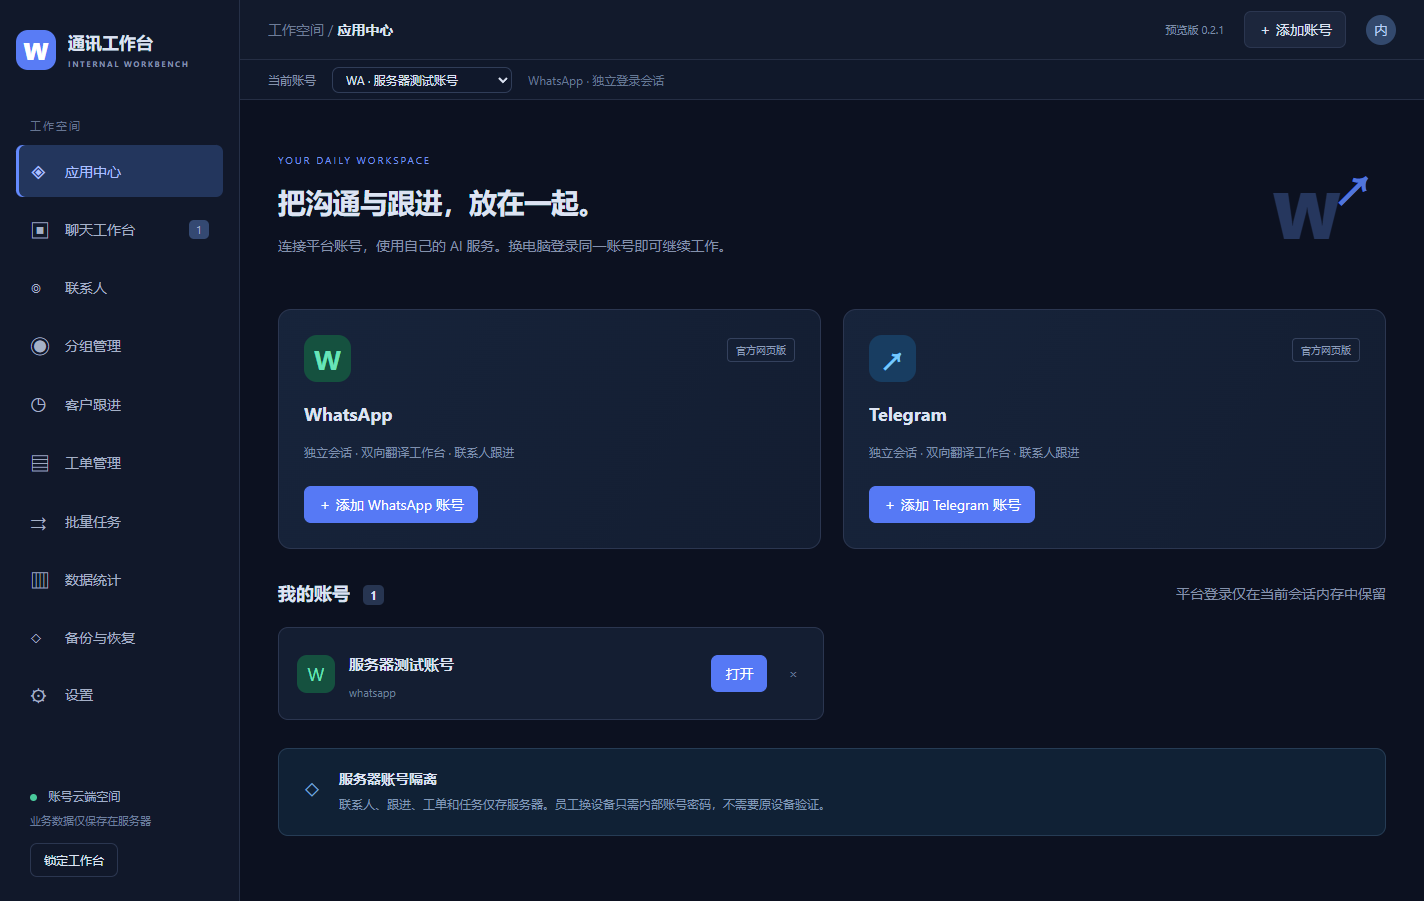
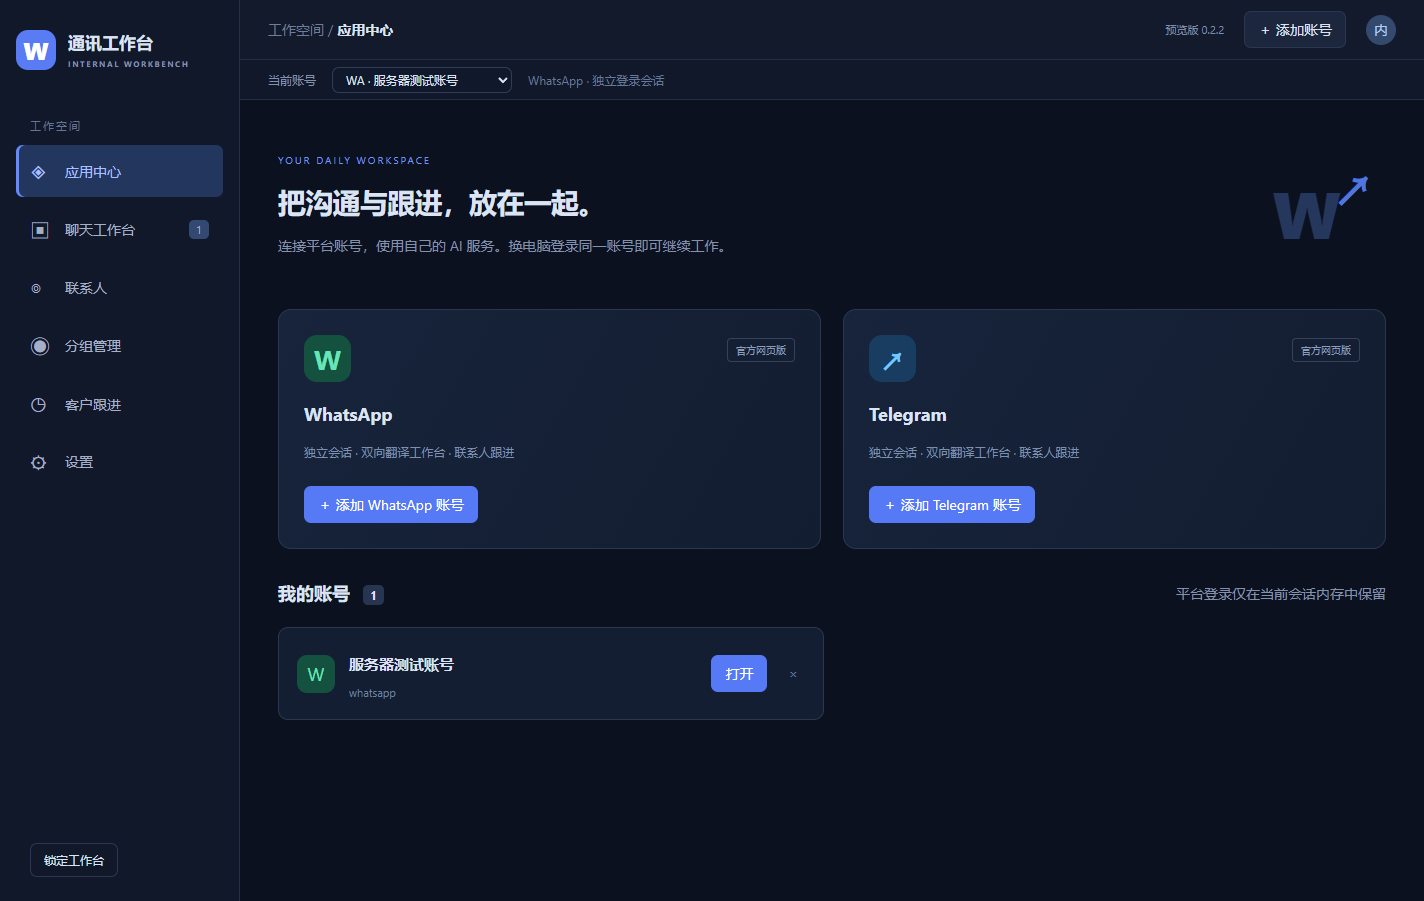
Refresh download page for simplified 0.2.2 interface

diff --git a/index.html b/index.html
@@ -1,10 +1,10 @@
 <!doctype html>
-<html lang="zh-CN"><head><meta charset="utf-8"><meta name="viewport" content="width=device-width,initial-scale=1"><meta name="description" content="内部通讯工作台 Windows 下载。连接 WhatsApp 与 Telegram，完成双向翻译、联系人跟进与工单管理。"><meta name="theme-color" content="#f7f8fa"><title>通讯工作台 · Windows 下载</title><link rel="icon" href="assets/icon.svg" type="image/svg+xml"><link rel="stylesheet" href="style.css"></head>
+<html lang="zh-CN"><head><meta charset="utf-8"><meta name="viewport" content="width=device-width,initial-scale=1"><meta name="description" content="内部通讯工作台 Windows 下载。连接 WhatsApp 与 Telegram，完成双向翻译与联系人跟进。"><meta name="theme-color" content="#f7f8fa"><title>通讯工作台 · Windows 下载</title><link rel="icon" href="assets/icon.svg" type="image/svg+xml"><link rel="stylesheet" href="style.css"></head>
 <body><a class="skip" href="#main">跳转到正文</a><header><a class="brand" href="#"><span class="mark">W</span><span>通讯工作台<small>INTERNAL WORKBENCH</small></span></a><nav aria-label="主导航"><a href="#features">功能</a><a href="#start">安装指南</a><a href="#faq">常见问题</a></nav><a class="button small" href="#download">获取 Windows 版 <span>↗</span></a></header>
-<main id="main"><section class="hero wrap"><div class="eyebrow"><span class="dot"></span> 为内部团队打造 · WINDOWS 桌面应用</div><h1>沟通与跟进，<br>在同一个工作台。</h1><p class="lead">连接 WhatsApp 与 Telegram，用中文理解消息，<br class="desktop">用自然的美式英语回应，把每一次沟通接续下去。</p><div class="hero-actions"><a class="button primary download-link" href="#download"><svg viewBox="0 0 20 20" aria-hidden="true"><path d="M2 3l7-1v7H2zm9-1l7-1v8h-7zM2 11h7v7l-7-1zm9 0h7v8l-7-1z"/></svg>下载 Windows 版 <span>↓</span></a><a class="text-link" href="#start">查看安装步骤 <span>→</span></a></div><p class="release-meta">v<span data-version>0.2.1</span> 功能预览版 <span>·</span> Windows 10 / 11，64 位 <span>·</span> 内部账号登录</p><div class="product"><div class="product-bar"><div class="window-dots"><i></i><i></i><i></i></div><span>一个工作空间，连接日常沟通</span><span class="product-badge">DESKTOP APP</span></div><img src="assets/workbench.png" width="1424" height="901" alt="通讯工作台实际界面，包含 WhatsApp 和 Telegram 账号入口及联系人、跟进、工单导航"><div class="image-caption">实际应用界面 · 示例账号与测试数据</div></div></section>
+<main id="main"><section class="hero wrap"><div class="eyebrow"><span class="dot"></span> 为内部团队打造 · WINDOWS 桌面应用</div><h1>沟通与跟进，<br>在同一个工作台。</h1><p class="lead">连接 WhatsApp 与 Telegram，用中文理解消息，<br class="desktop">用自然的美式英语回应，把每一次沟通接续下去。</p><div class="hero-actions"><a class="button primary download-link" href="#download"><svg viewBox="0 0 20 20" aria-hidden="true"><path d="M2 3l7-1v7H2zm9-1l7-1v8h-7zM2 11h7v7l-7-1zm9 0h7v8l-7-1z"/></svg>下载 Windows 版 <span>↓</span></a><a class="text-link" href="#start">查看安装步骤 <span>→</span></a></div><p class="release-meta">v<span data-version>0.2.2</span> 功能预览版 <span>·</span> Windows 10 / 11，64 位 <span>·</span> 内部账号登录</p><div class="product"><div class="product-bar"><div class="window-dots"><i></i><i></i><i></i></div><span>一个工作空间，连接日常沟通</span><span class="product-badge">DESKTOP APP</span></div><img src="assets/workbench.png" width="1424" height="901" alt="通讯工作台实际界面，包含 WhatsApp 和 Telegram 账号入口及联系人、跟进、工单导航"><div class="image-caption">实际应用界面 · 示例账号与测试数据</div></div></section>
 <section class="platforms wrap"><p>熟悉的平台，更连贯的工作流程</p><div><span class="platform wa">W</span><b>WhatsApp</b><span class="divider"></span><span class="platform tg">↗</span><b>Telegram</b><span class="native">连接官方网页版</span></div></section>
-<section id="features" class="features wrap"><div class="section-heading"><div class="eyebrow">BUILT FOR YOUR DAY</div><h2>从一条消息，到下一步行动。</h2><p>把翻译、记录和日常跟进放在顺手的位置。</p></div><div class="feature-grid"><article class="translation"><div class="feature-number">01 / TRANSLATE</div><h3>说得自然，也看得明白。</h3><p>ChatGPT 双向翻译，发出美式英语，接收中文。译文只使用逗号和句号，不设内部翻译额度或充值。</p><div class="chat-demo" aria-label="翻译效果示意"><div class="bubble original"><small>中文草稿</small>你好，方便确认一下明天的安排吗？</div><div class="translate-arrow">↓ <span>美式英语 · 效果示意</span></div><div class="bubble translated"><small>翻译预览</small>Hi, could you confirm the plans for tomorrow.</div></div></article><article><div class="feature-number">02 / FOLLOW THROUGH</div><h3>沟通之后，留有记录。</h3><p>联系人、分组、跟进与工单集中管理。支持文本批量任务和基础统计，方便安排后续工作。</p><div class="task-demo"><div><span class="check">✓</span><span>记录联系人</span><small>已完成</small></div><div><span class="check">✓</span><span>添加跟进事项</span><small>已完成</small></div><div><span class="pending"></span><span>确认下一次沟通</span><small>待跟进</small></div></div></article><article><div class="feature-number">03 / YOUR WORKSPACE</div><h3>换一台电脑，继续工作。</h3><p>业务数据保存在服务器。用内部账号和密码登录，无需原设备批准，不同内部账号的数据彼此隔离。</p><div class="cloud-demo"><span class="device">▣<small>电脑 A</small></span><span class="cloud-line"></span><span class="cloud">你的账号空间</span><span class="cloud-line"></span><span class="device">▣<small>电脑 B</small></span></div></article></div></section>
+<section id="features" class="features wrap"><div class="section-heading"><div class="eyebrow">BUILT FOR YOUR DAY</div><h2>从一条消息，到下一步行动。</h2><p>把翻译、记录和日常跟进放在顺手的位置。</p></div><div class="feature-grid"><article class="translation"><div class="feature-number">01 / TRANSLATE</div><h3>说得自然，也看得明白。</h3><p>ChatGPT 双向翻译，发出美式英语，接收中文。译文只使用逗号和句号，不设内部翻译额度或充值。</p><div class="chat-demo" aria-label="翻译效果示意"><div class="bubble original"><small>中文草稿</small>你好，方便确认一下明天的安排吗？</div><div class="translate-arrow">↓ <span>美式英语 · 效果示意</span></div><div class="bubble translated"><small>翻译预览</small>Hi, could you confirm the plans for tomorrow.</div></div></article><article><div class="feature-number">02 / FOLLOW THROUGH</div><h3>沟通之后，留有记录。</h3><p>联系人、分组与跟进集中管理，记录每次沟通的后续事项，方便安排下一步工作。</p><div class="task-demo"><div><span class="check">✓</span><span>记录联系人</span><small>已完成</small></div><div><span class="check">✓</span><span>添加跟进事项</span><small>已完成</small></div><div><span class="pending"></span><span>确认下一次沟通</span><small>待跟进</small></div></div></article><article><div class="feature-number">03 / YOUR WORKSPACE</div><h3>换一台电脑，继续工作。</h3><p>业务数据保存在服务器。用内部账号和密码登录，无需原设备批准，不同内部账号的数据彼此隔离。</p><div class="cloud-demo"><span class="device">▣<small>电脑 A</small></span><span class="cloud-line"></span><span class="cloud">你的账号空间</span><span class="cloud-line"></span><span class="device">▣<small>电脑 B</small></span></div></article></div></section>
 <section id="start" class="getting-started"><div class="wrap"><div class="section-heading"><div class="eyebrow">GET STARTED</div><h2>三步，开始使用。</h2></div><ol class="steps"><li><span>01</span><h3>下载并安装</h3><p>点击下载 Windows 版，运行安装包，按提示完成安装。</p></li><li><span>02</span><h3>登录内部账号</h3><p>使用管理员分配的邮箱和密码。主管理员可创建下级管理员，由其开通普通成员。</p></li><li><span>03</span><h3>连接平台与翻译服务</h3><p>在官方页面扫码登录 WhatsApp 或 Telegram，在设置中配置 OpenAI API 密钥。</p></li></ol><p class="note">当前安装包尚未签名。请核对本页版本和文件校验值；如公司设备阻止安装，请联系内部管理员。</p></div></section>
-<section class="wrap faq" id="faq"><div class="section-heading"><div class="eyebrow">GOOD TO KNOW</div><h2>开始前，你可能想了解。</h2></div><div class="questions"><details><summary>需要购买会员或充值翻译额度吗？</summary><p>不需要。内部版本没有会员、积分、充值或翻译次数配额。配置的 OpenAI API 仍按其自身规则收费和限流。</p></details><details><summary>账号和密码从哪里获得？</summary><p>由内部管理员分配。主管理员可以创建下级管理员，下级管理员可为自己负责的普通成员开通账号并设置初始密码。网站不开放自助注册。</p></details><details><summary>换电脑后需要原设备批准吗？</summary><p>不需要，使用同一内部账号和密码即可读取自己的服务器业务数据。WhatsApp 和 Telegram 平台登录是独立流程，可能需要重新扫码。</p></details><details><summary>现在包含哪些功能？</summary><p>预览版包含双平台工作台、翻译侧栏、音频文件转写、联系人与工单管理、文本任务和基础统计。聊天语音气泡自动翻译、媒体群发、完整引用/转发适配与深度统计仍在完善，当前并非完整功能等价正式版。</p></details><details><summary>电脑会保存业务数据吗？</summary><p>业务记录与配置仅保存到服务器，应用不建立本机业务数据库或持久登录凭据。运行期间需要内存，操作系统仍可能产生临时文件。离线时不能读取服务器记录。</p></details></div></section>
-<section class="wrap download" id="download"><div><div class="eyebrow">YOUR NEXT WORKSPACE</div><h2>准备好，接续每一次沟通。</h2><p>通讯工作台 v<span data-version>0.2.1</span> · Windows x64 · 功能预览版</p></div><a class="button primary download-link" href="https://github.com/avadiana1986-netizen/internal-workbench-download/releases/download/v0.2.1/Internal-Workbench-Setup-0.2.1.exe">下载 Windows 版 <span>↓</span></a><div class="download-details"><span>发布于 2026 年 10 月 22 日</span><a id="checksums" href="https://github.com/avadiana1986-netizen/internal-workbench-download/releases/download/v0.2.1/SHA256SUMS.txt">文件校验值 ↗</a><a href="https://github.com/avadiana1986-netizen/internal-workbench-download/releases/tag/v0.2.1">版本说明 ↗</a></div></section></main>
+<section class="wrap faq" id="faq"><div class="section-heading"><div class="eyebrow">GOOD TO KNOW</div><h2>开始前，你可能想了解。</h2></div><div class="questions"><details><summary>需要购买会员或充值翻译额度吗？</summary><p>不需要。内部版本没有会员、积分、充值或翻译次数配额。配置的 OpenAI API 仍按其自身规则收费和限流。</p></details><details><summary>账号和密码从哪里获得？</summary><p>由内部管理员分配。主管理员可以创建下级管理员，下级管理员可为自己负责的普通成员开通账号并设置初始密码。网站不开放自助注册。</p></details><details><summary>换电脑后需要原设备批准吗？</summary><p>不需要，使用同一内部账号和密码即可读取自己的服务器业务数据。WhatsApp 和 Telegram 平台登录是独立流程，可能需要重新扫码。</p></details><details><summary>现在包含哪些功能？</summary><p>预览版包含双平台工作台、翻译侧栏、音频文件转写、联系人、分组与客户跟进。聊天语音气泡自动翻译、媒体群发、完整引用/转发适配与深度统计仍在完善，当前并非完整功能等价正式版。</p></details><details><summary>电脑会保存业务数据吗？</summary><p>业务记录与配置仅保存到服务器，应用不建立本机业务数据库或持久登录凭据。运行期间需要内存，操作系统仍可能产生临时文件。离线时不能读取服务器记录。</p></details></div></section>
+<section class="wrap download" id="download"><div><div class="eyebrow">YOUR NEXT WORKSPACE</div><h2>准备好，接续每一次沟通。</h2><p>通讯工作台 v<span data-version>0.2.2</span> · Windows x64 · 功能预览版</p></div><a class="button primary download-link" href="https://github.com/avadiana1986-netizen/internal-workbench-download/releases/download/v0.2.2/Internal-Workbench-Setup-0.2.2.exe">下载 Windows 版 <span>↓</span></a><div class="download-details"><span>发布于 2026 年 10 月 22 日</span><a id="checksums" href="https://github.com/avadiana1986-netizen/internal-workbench-download/releases/download/v0.2.2/SHA256SUMS.txt">文件校验值 ↗</a><a href="https://github.com/avadiana1986-netizen/internal-workbench-download/releases/tag/v0.2.2">版本说明 ↗</a></div></section></main>
 <footer class="wrap"><a class="brand" href="#"><span class="mark">W</span><span>通讯工作台</span></a><p>为内部团队提供 · 独立开发，与 WhatsApp、Telegram、OpenAI 无隶属关系。</p><a href="#main">回到顶部 ↑</a></footer><script src="site.js"></script></body></html>

diff --git a/site.js b/site.js
@@ -1,1 +1,1 @@
-document.querySelectorAll('.download-link').forEach(a=>a.href='https://github.com/avadiana1986-netizen/internal-workbench-download/releases/download/v0.2.1/Internal-Workbench-Setup-0.2.1.exe');
+document.querySelectorAll('.download-link').forEach(a=>a.href='https://github.com/avadiana1986-netizen/internal-workbench-download/releases/download/v0.2.2/Internal-Workbench-Setup-0.2.2.exe');
